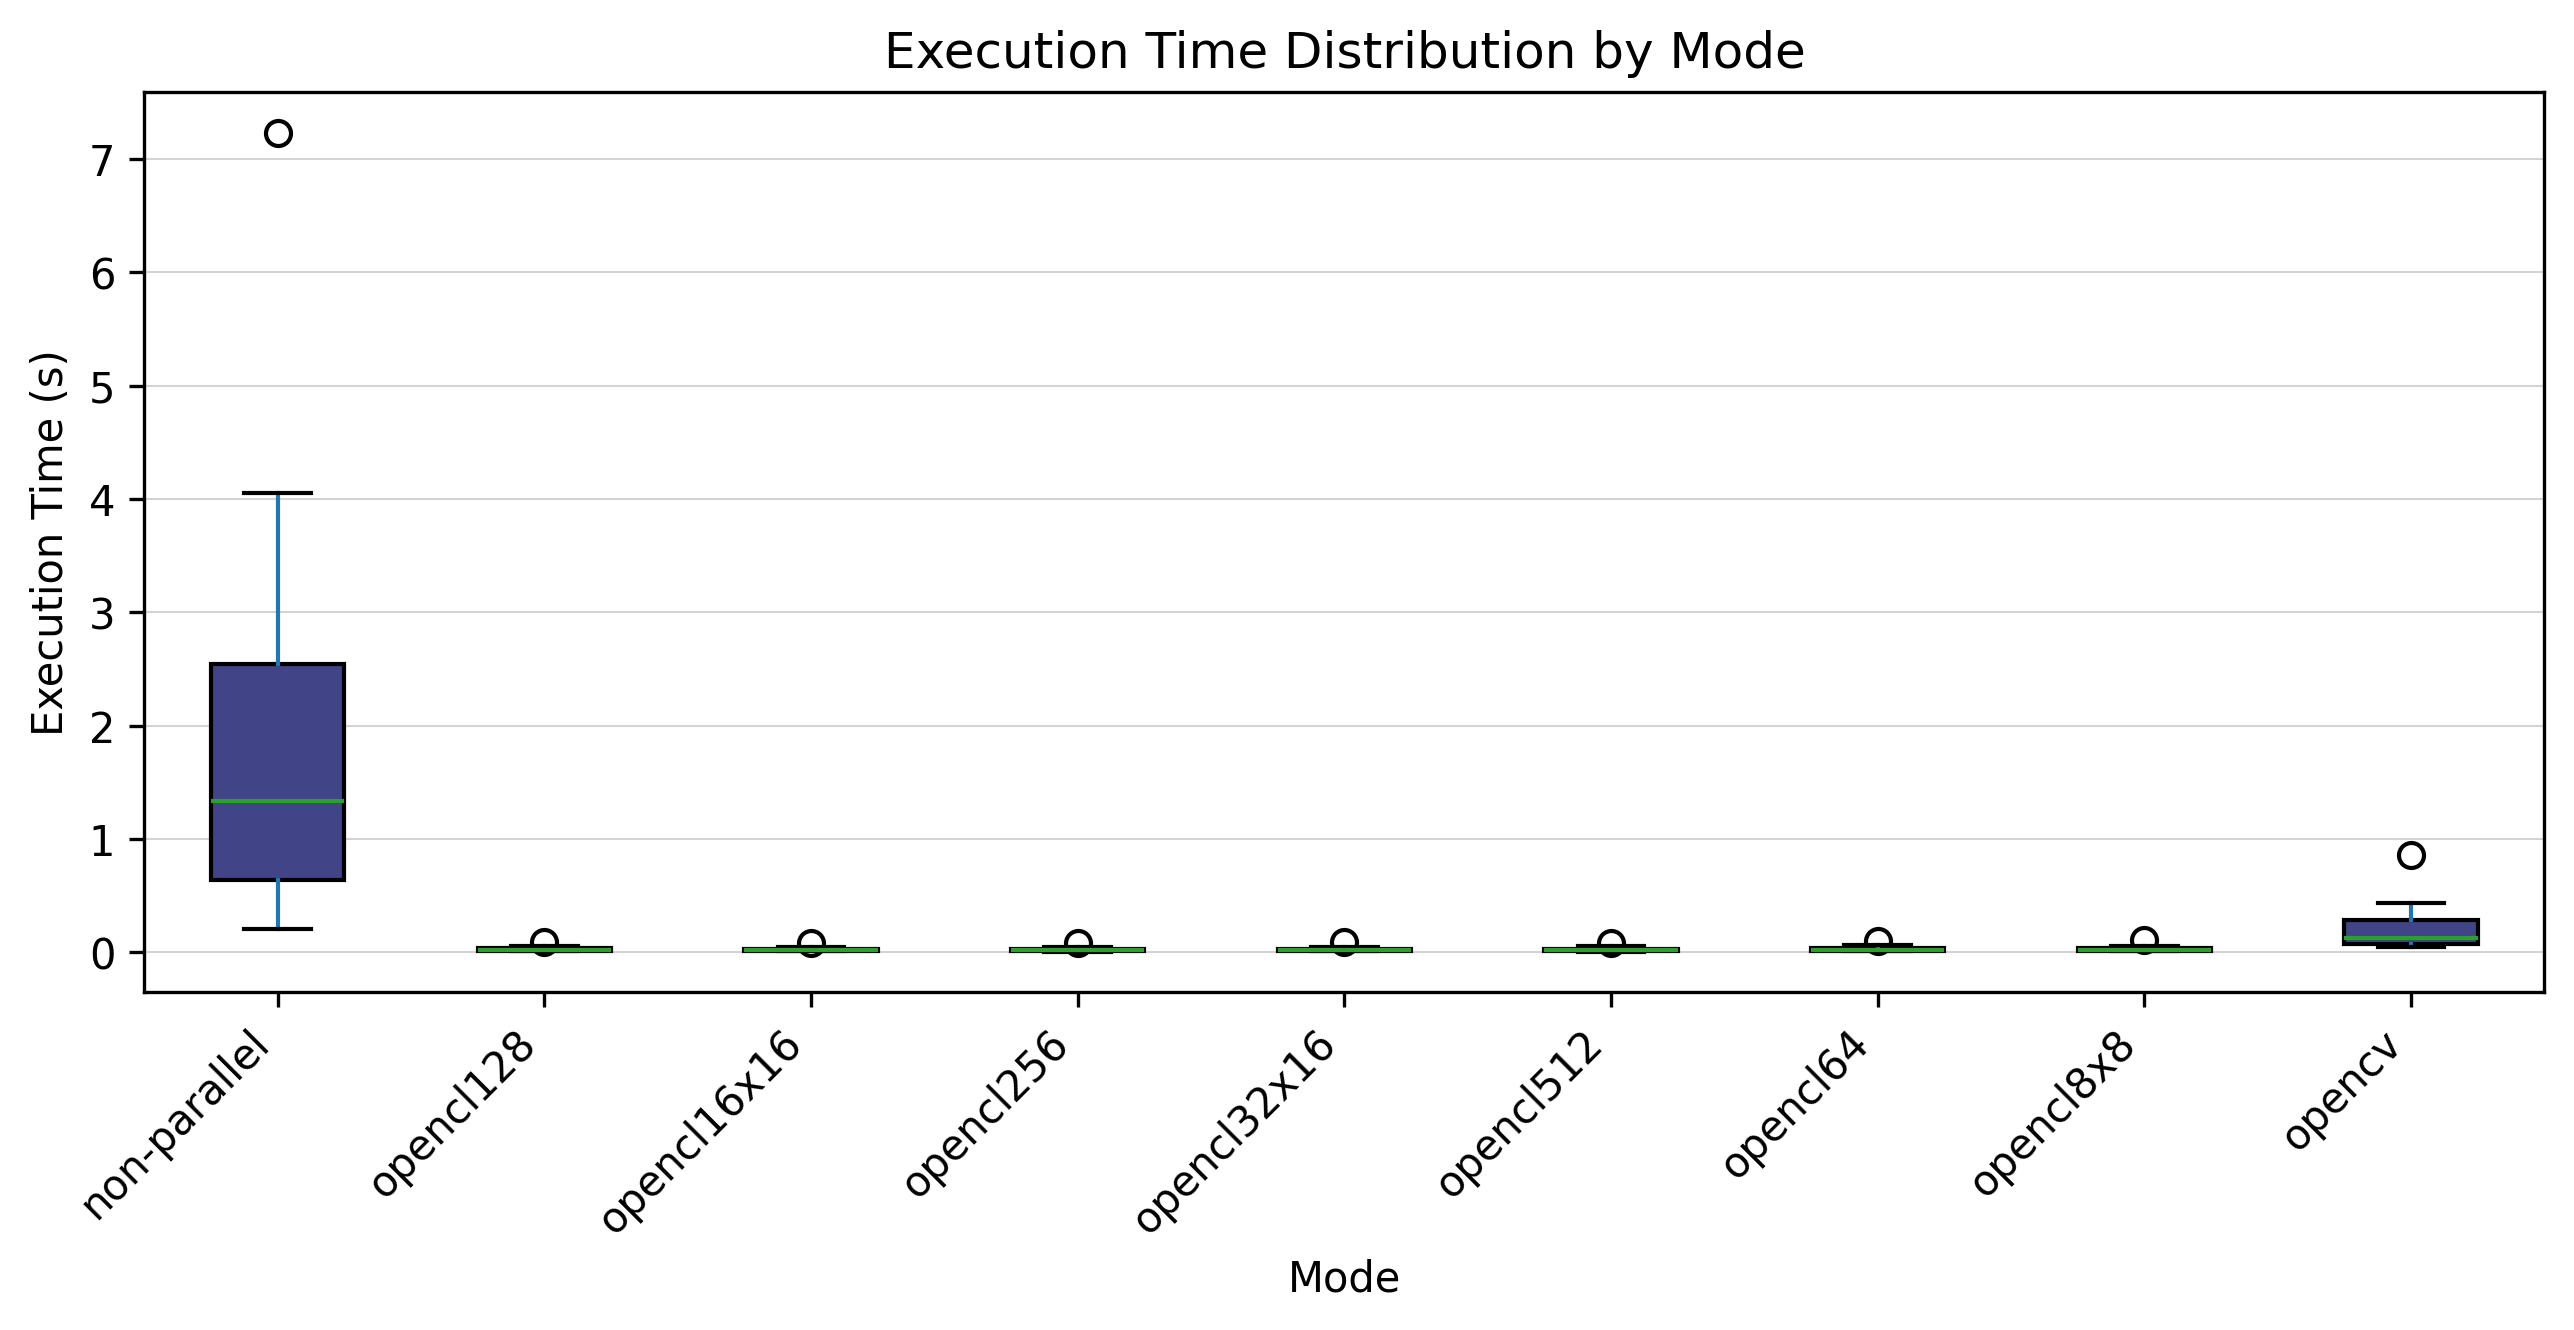
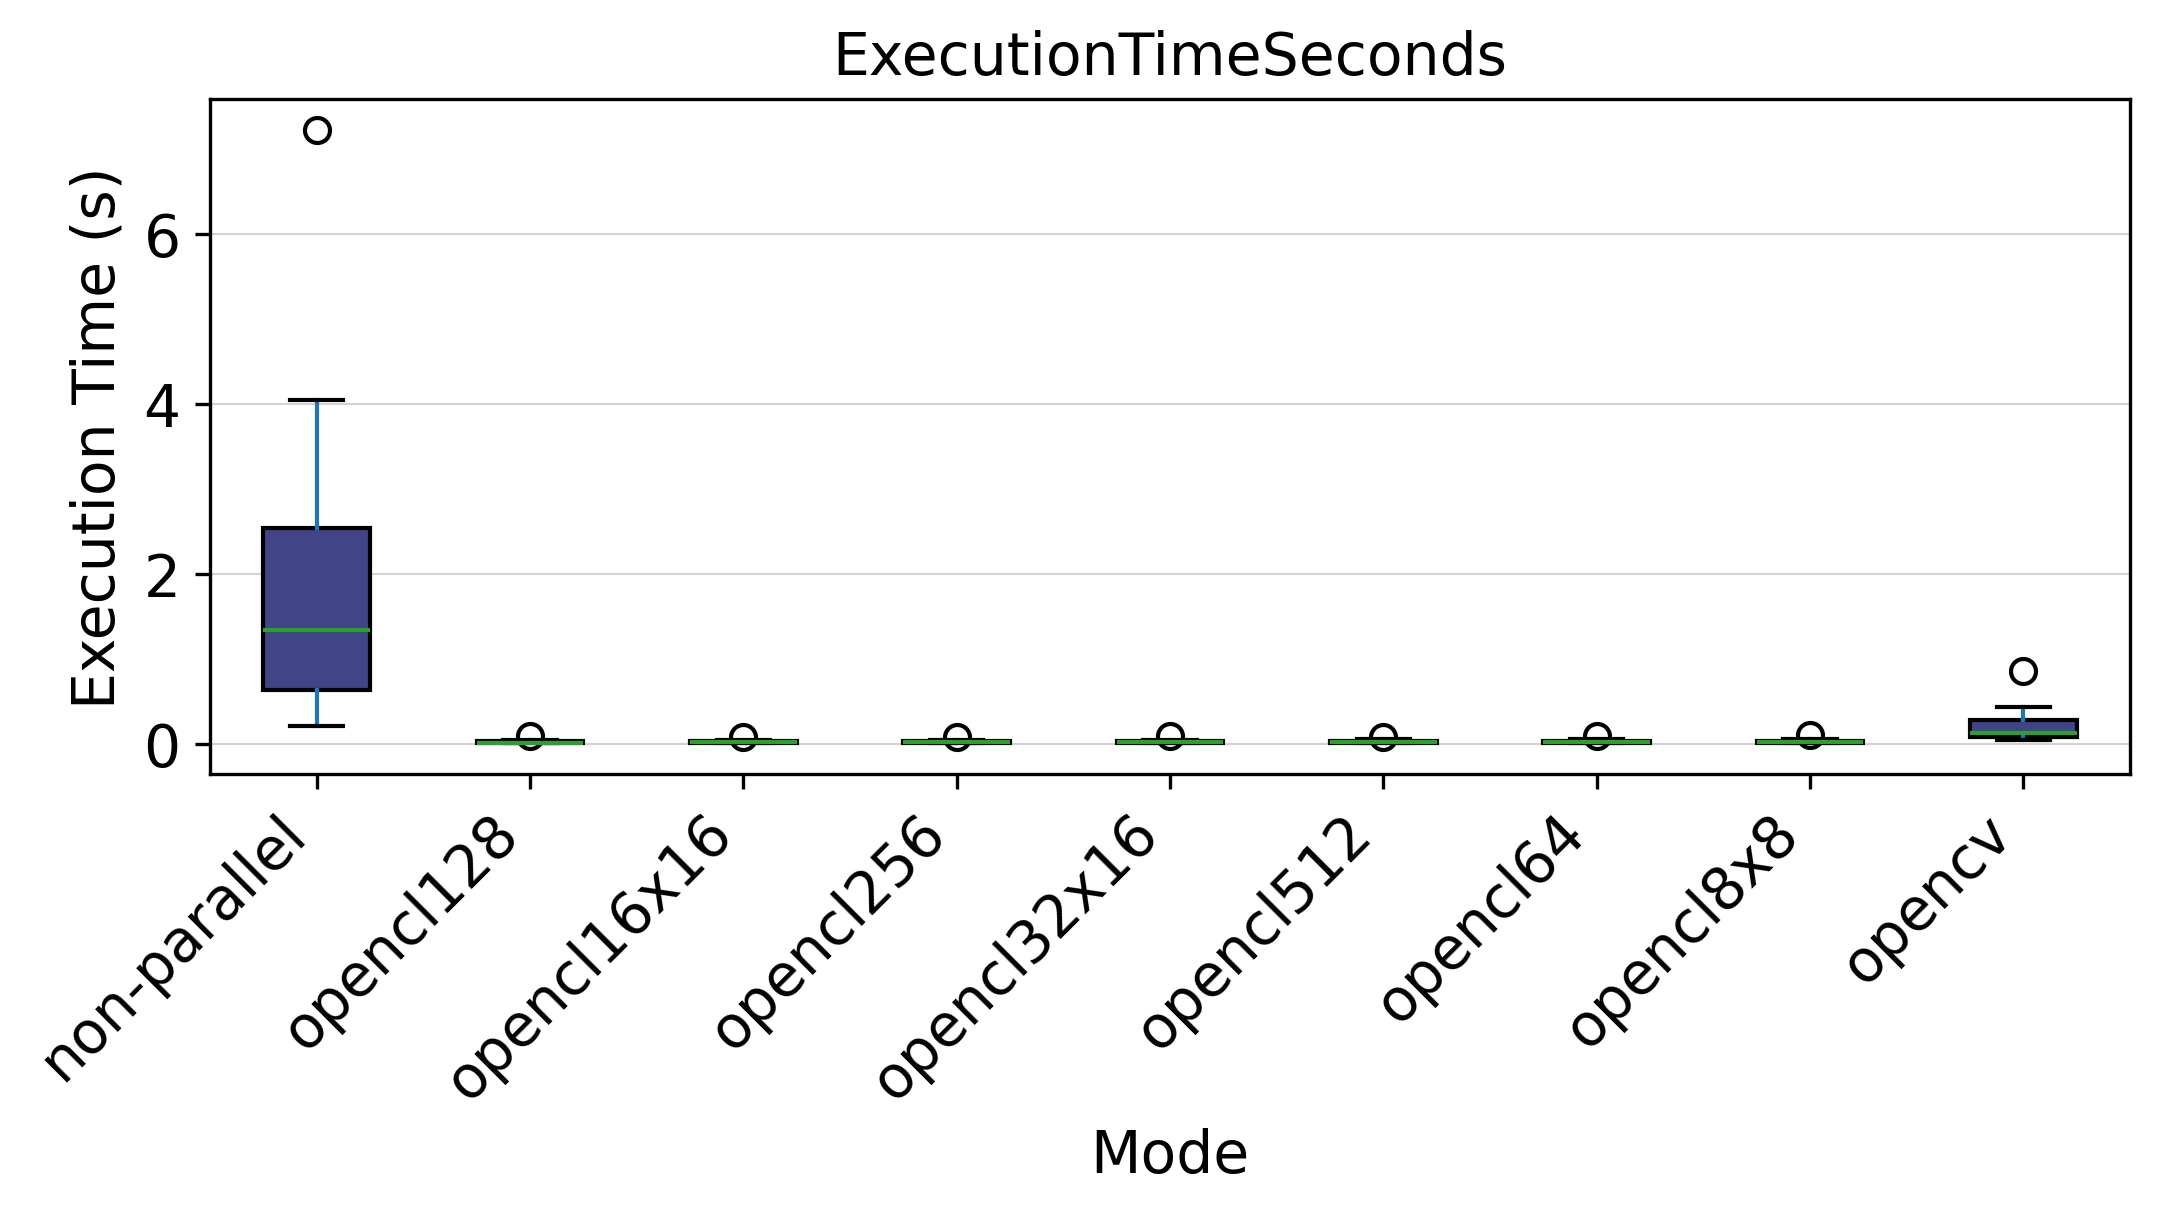
update plots

diff --git a/visualize/main.py b/visualize/main.py
@@ -84,9 +84,14 @@ def analyze_csv():
     # Add a new column "TotalPixels" to the DataFrame based on computed image sizes.
     df["TotalPixels"] = df["InputFile"].map(lambda x: image_sizes[x]["total_pixels"] if x in image_sizes else None)
 
+    plt.rcParams.update({"xtick.labelsize": 14, "ytick.labelsize": 14})
+    plt.rcParams.update({"axes.titlesize": 14})
+    plt.rcParams.update({"axes.labelsize": 14})
+
+
     # -------------------------------------------------------------------------
     # Create a boxplot showing the distribution of execution times by mode.
-    fig1, ax1 = plt.subplots(figsize=(10, 4))
+    fig1, ax1 = plt.subplots(figsize=(8, 3))
     df.boxplot(
         column="ExecutionTimeSeconds", 
         by="Mode", 
@@ -95,7 +100,7 @@ def analyze_csv():
         patch_artist=True, 
         boxprops=dict(facecolor=plt.cm.viridis(0.2))
     )
-    ax1.set_title("Execution Time Distribution by Mode")
+    #ax1.set_title("Execution Time Distribution by Mode")
     ax1.set_xlabel("Mode")
     ax1.set_ylabel("Execution Time (s)")
     ax1.grid(axis='y', color='lightgray', linestyle='-', linewidth=0.5, zorder=-1)
@@ -106,7 +111,7 @@ def analyze_csv():
     # -------------------------------------------------------------------------
     # Create a boxplot for execution times for modes starting with "opencl".
     opencl_modes = df[df["Mode"].str.startswith("opencl")]
-    fig2, ax2 = plt.subplots(figsize=(10, 4))
+    fig2, ax2 = plt.subplots(figsize=(8, 3))
     opencl_modes.boxplot(
         column="ExecutionTimeSeconds", 
         by="Mode", 
@@ -115,7 +120,7 @@ def analyze_csv():
         patch_artist=True, 
         boxprops=dict(facecolor=plt.cm.viridis(0.5))
     )
-    ax2.set_title("Execution Time Distribution for OpenCL Modes")
+    #ax2.set_title("Execution Time Distribution for OpenCL Modes")
     ax2.set_xlabel("Mode")
     ax2.set_ylabel("Execution Time (s)")
     ax2.grid(axis='y', color='lightgray', linestyle='-', linewidth=0.5, zorder=-1)
@@ -128,7 +133,7 @@ def analyze_csv():
     avg_time_per_mode = df.groupby("Mode")["ExecutionTimeSeconds"].mean().sort_values()
 
     # Normaler Balkendiagramm-Plot
-    fig1, ax1 = plt.subplots(figsize=(10, 4))
+    fig1, ax1 = plt.subplots(figsize=(8, 3))
     avg_time_per_mode.plot(
         kind="bar",
         color=[plt.cm.viridis(i / len(avg_time_per_mode)) for i in range(len(avg_time_per_mode))],
@@ -136,7 +141,7 @@ def analyze_csv():
         ax=ax1,
         zorder=3
     )
-    ax1.set_title("Average Execution Time by Mode")
+    #ax1.set_title("Average Execution Time by Mode")
     ax1.set_xlabel("Mode")
     ax1.set_ylabel("Execution Time (s)")
     ax1.grid(axis='y', color='lightgray', linestyle='-', linewidth=0.5, zorder=-1)
@@ -146,7 +151,7 @@ def analyze_csv():
 
     # -------------------------------------------------------------------------
     # Zweiter Plot mit logarithmischer y-Achse
-    fig2, ax2 = plt.subplots(figsize=(10, 4))
+    fig2, ax2 = plt.subplots(figsize=(8, 3))
     avg_time_per_mode.plot(
         kind="bar",
         color=[plt.cm.viridis(i / len(avg_time_per_mode)) for i in range(len(avg_time_per_mode))],
@@ -155,9 +160,9 @@ def analyze_csv():
         zorder=3
     )
     ax2.set_yscale("log")  # Setzt die y-Achse auf logarithmische Skalierung
-    ax2.set_title("Average Execution Time by Mode (Log Scale)")
+    #ax2.set_title("Average Execution Time by Mode (Log Scale)")
     ax2.set_xlabel("Mode")
-    ax2.set_ylabel("Execution Time (s, log scale)")
+    ax2.set_ylabel("Execution Time (s)")
     ax2.grid(axis='y', which='both', color='lightgray', linestyle='-', linewidth=0.5, zorder=-1)
 
     # Speichern des logarithmischen Plots
@@ -168,7 +173,7 @@ def analyze_csv():
     # Create a bar chart for the average execution time for OpenCL modes.
     opencl_modes = df[df["Mode"].str.startswith("opencl")]
     avg_time_opencl = opencl_modes.groupby("Mode")["ExecutionTimeSeconds"].mean().sort_values()
-    fig2, ax2 = plt.subplots(figsize=(10, 4))
+    fig2, ax2 = plt.subplots(figsize=(8, 3))
     avg_time_opencl.plot(
         kind="bar",
         color=[plt.cm.viridis(i / len(avg_time_opencl)) for i in range(len(avg_time_opencl))],
@@ -176,7 +181,7 @@ def analyze_csv():
         ax=ax2,
         zorder=3
     )
-    ax2.set_title("Average Execution Time for OpenCL Modes")
+    #ax2.set_title("Average Execution Time for OpenCL Modes")
     ax2.set_xlabel("Mode")
     ax2.set_ylabel("Execution Time (s)")
     ax2.grid(axis='y', color='lightgray', linestyle='-', linewidth=0.5, zorder=-1)
@@ -184,7 +189,7 @@ def analyze_csv():
 
     # -------------------------------------------------------------------------
     # Line plot: Execution time vs. Total Pixels, differentiated by Mode.
-    fig1, ax1 = plt.subplots(figsize=(10, 4))
+    fig1, ax1 = plt.subplots(figsize=(8, 3))
 
     for i, (mode, group) in enumerate(df.groupby("Mode")):
         group = group.sort_values("TotalPixels")
@@ -194,17 +199,18 @@ def analyze_csv():
         color = plt.cm.viridis(i / len(df["Mode"].unique()))
         ax1.plot(x, y, label=mode, marker="o", color=color)
 
-    ax1.set_title("Execution Time vs. Total Pixels by Mode")
+    #ax1.set_title("Execution Time vs. Total Pixels by Mode")
     ax1.set_xlabel("Total Pixels")
     ax1.set_ylabel("Execution Time (s)")
-    ax1.legend(title="Mode")
+    # ax1.legend(title="Mode")
+    ax1.legend(title="Mode", loc="upper center", bbox_to_anchor=(0.5, 1.45), ncol=4, frameon=True)
     ax1.grid(color='lightgray', linestyle='-', linewidth=0.5, zorder=-1)
 
     save_plot(fig1, "lineplot_execution_time_vs_total_pixels.png")
 
     # -------------------------------------------------------------------------
     # Line plot with log-scale y-axis
-    fig2, ax2 = plt.subplots(figsize=(10, 4))
+    fig2, ax2 = plt.subplots(figsize=(8, 3))
 
     for i, (mode, group) in enumerate(df.groupby("Mode")):
         group = group.sort_values("TotalPixels")
@@ -215,10 +221,11 @@ def analyze_csv():
         ax2.plot(x, y, label=mode, marker="o", color=color)
 
     ax2.set_yscale("log")
-    ax2.set_title("Execution Time vs. Total Pixels by Mode (Log Scale)")
+    #ax2.set_title("Execution Time vs. Total Pixels by Mode (Log Scale)")
     ax2.set_xlabel("Total Pixels")
-    ax2.set_ylabel("Execution Time (s, log scale)")
-    ax2.legend(title="Mode")
+    ax2.set_ylabel("Execution Time (s)")
+    # ax2.legend(title="Mode")
+    ax2.legend(title="Mode", loc="upper center", bbox_to_anchor=(0.5, 1.45), ncol=4, frameon=True)
     ax2.grid(color='lightgray', linestyle='-', linewidth=0.5, which='both', zorder=-1)
 
     save_plot(fig2, "lineplot_execution_time_vs_total_pixels_logscale.png")
@@ -226,7 +233,7 @@ def analyze_csv():
 
     # -------------------------------------------------------------------------
     # Line plot: Execution time vs. Total Pixels for OpenCL modes only.
-    fig2, ax2 = plt.subplots(figsize=(10, 4))
+    fig2, ax2 = plt.subplots(figsize=(8, 3))
     opencl_modes = df[df["Mode"].str.startswith("opencl")]
     for i, (mode, group) in enumerate(opencl_modes.groupby("Mode")):
         group = group.sort_values("TotalPixels")
@@ -234,10 +241,11 @@ def analyze_csv():
         y = group["ExecutionTimeSeconds"]
         color = plt.cm.viridis(i / len(opencl_modes["Mode"].unique()))
         ax2.plot(x, y, label=mode, marker="o", color=color)
-    ax2.set_title("Execution Time vs. Total Pixels by OpenCL Mode")
+    #ax2.set_title("Execution Time vs. Total Pixels by OpenCL Mode")
     ax2.set_xlabel("Total Pixels")
     ax2.set_ylabel("Execution Time (s)")
-    ax2.legend(title="Mode")
+    # ax2.legend(title="Mode")
+    ax2.legend(title="Mode", loc="upper center", bbox_to_anchor=(0.5, 1.45), ncol=4, frameon=True)
     ax2.grid(color='lightgray', linestyle='-', linewidth=0.5, zorder=-1)
     save_plot(fig2, "lineplot_execution_time_vs_total_pixels_opencl_modes.png")
 
@@ -246,7 +254,7 @@ def analyze_csv():
     # Extract the image category from the input file path using a regular expression.
     df["Category"] = df["InputFile"].str.extract(r'images/([a-zA-Z]+)')[0]
     grouped = df.groupby(["Category", "Mode"])["ExecutionTimeSeconds"].mean().unstack()
-    fig1, ax1 = plt.subplots(figsize=(10, 4))
+    fig1, ax1 = plt.subplots(figsize=(8, 3))
     grouped.plot(
         kind="bar", 
         stacked=False, 
@@ -256,7 +264,7 @@ def analyze_csv():
         zorder=3, 
         edgecolor="black"
     )
-    ax1.set_title("Execution Time by Category and Mode")
+    #ax1.set_title("Execution Time by Category and Mode")
     ax1.set_xlabel("Category")
     ax1.set_ylabel("Execution Time (s)")
     ax1.legend(title="Mode")
@@ -267,7 +275,7 @@ def analyze_csv():
     # Grouped bar chart: Average execution time by image category for OpenCL modes.
     opencl_modes = df[df["Mode"].str.startswith("opencl")]
     grouped_opencl = opencl_modes.groupby(["Category", "Mode"])["ExecutionTimeSeconds"].mean().unstack()
-    fig2, ax2 = plt.subplots(figsize=(10, 4))
+    fig2, ax2 = plt.subplots(figsize=(8, 3))
     grouped_opencl.plot(
         kind="bar", 
         stacked=False, 
@@ -277,7 +285,7 @@ def analyze_csv():
         zorder=3, 
         edgecolor="black"
     )
-    ax2.set_title("Execution Time by Category and OpenCL Mode")
+    #ax2.set_title("Execution Time by Category and OpenCL Mode")
     ax2.set_xlabel("Category")
     ax2.set_ylabel("Execution Time (s)")
     ax2.legend(
@@ -302,7 +310,7 @@ def analyze_csv():
     ax1.set_xticklabels(heatmap_data.columns, rotation=45, ha="right")
     ax1.set_yticks(range(len(heatmap_data.index)))
     ax1.set_yticklabels(heatmap_data.index)
-    ax1.set_title("Heatmap of Execution Time by Category and Mode")
+    #ax1.set_title("Heatmap of Execution Time by Category and Mode")
     save_plot(fig1, "heatmap_execution_time_by_category_and_mode.png")
 
     # -------------------------------------------------------------------------
@@ -321,7 +329,7 @@ def analyze_csv():
     ax2.set_xticklabels(heatmap_opencl_data.columns, rotation=45, ha="right")
     ax2.set_yticks(range(len(heatmap_opencl_data.index)))
     ax2.set_yticklabels(heatmap_opencl_data.index)
-    ax2.set_title("Heatmap of Execution Time by Category and OpenCL Mode")
+    #ax2.set_title("Heatmap of Execution Time by Category and OpenCL Mode")
     save_plot(fig2, "heatmap_execution_time_opencl_by_category_and_mode.png")
 
 if __name__ == "__main__":
